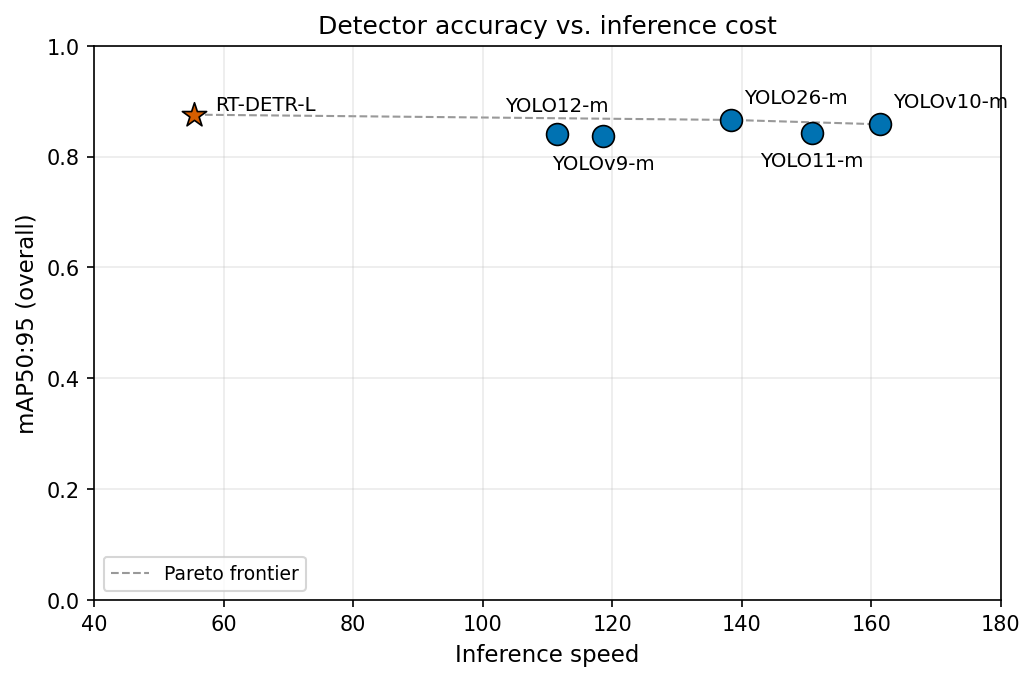
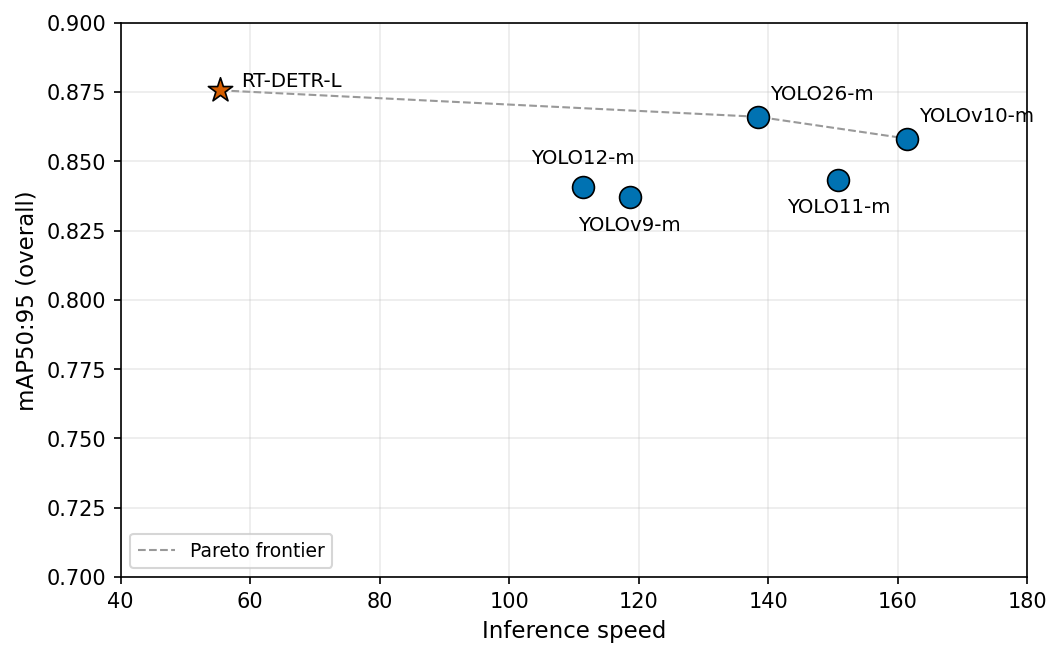
F3: y-range 0.7-0.9, remove title (caption supplied in manuscript)

diff --git a/scripts/make_paper_figures.py b/scripts/make_paper_figures.py
@@ -485,10 +485,9 @@ def fig_detectors():
         ax.annotate(DET_DISPLAY[d], (fps, a), textcoords="offset points",
                     xytext=(dx, dy), ha=ha, fontsize=9.5)
     ax.set_xlim(40, 180)
-    ax.set_ylim(0, 1)
+    ax.set_ylim(0.7, 0.9)
     ax.set_xlabel("Inference speed")
     ax.set_ylabel("mAP50:95 (overall)")
-    ax.set_title("Detector accuracy vs. inference cost")
     ax.legend(loc="lower left", fontsize=9, frameon=True)
     ax.grid(True, alpha=0.25)
     _save(fig, "F3_detector_accuracy_speed")
